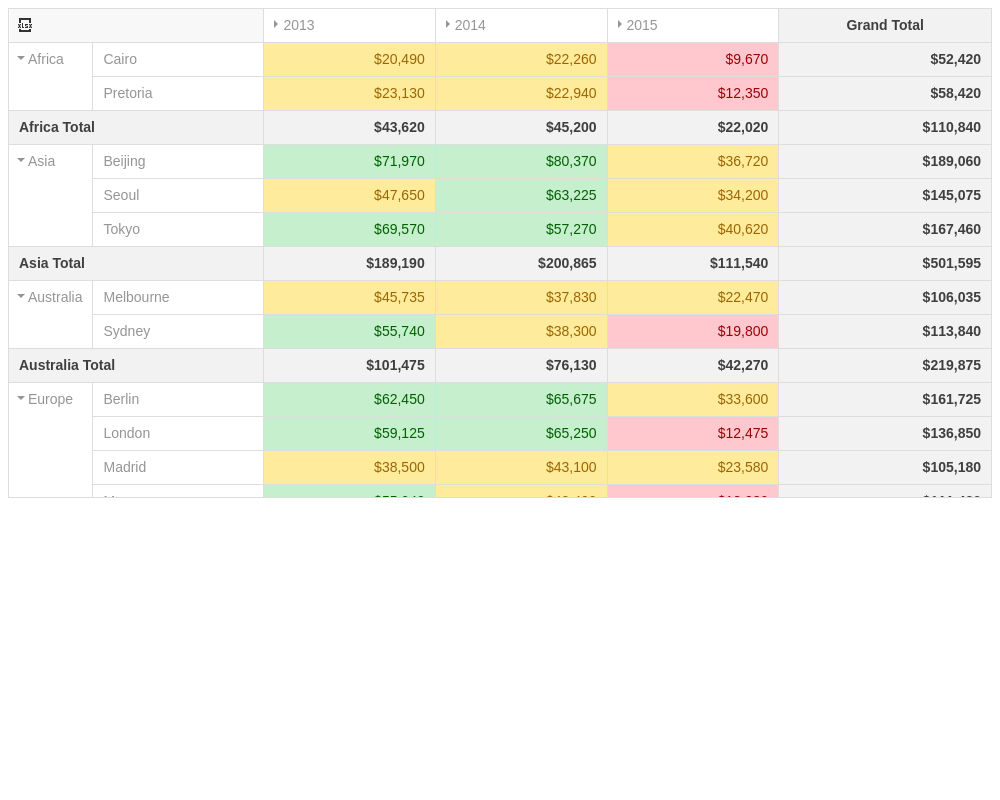
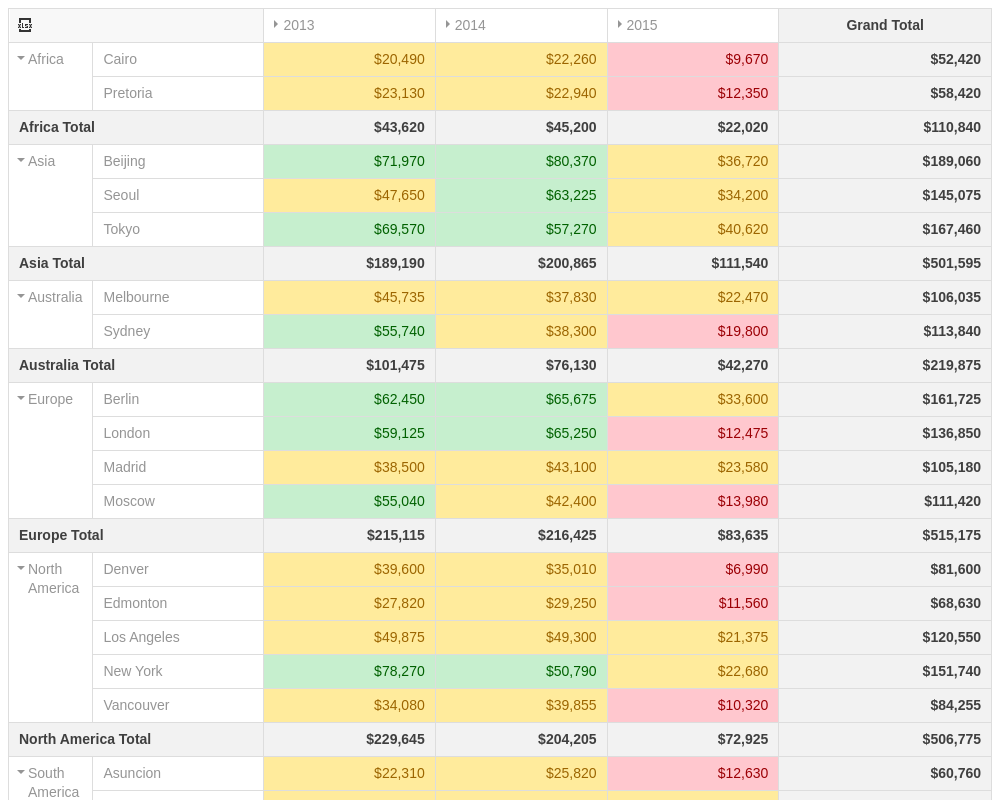
PivotGrid-ExcelJSCellCustomization fix

diff --git a/JSDemos/Demos/PivotGrid/ExcelJSCellCustomization/test-code.js b/JSDemos/Demos/PivotGrid/ExcelJSCellCustomization/test-code.js
@@ -1,0 +1,7 @@
+testUtils
+    .postponeUntilFound('.dx-pivotgrid')
+    .then(() => testUtils.importAnd(() => 'devextreme/ui/pivot_grid', () => DevExpress.ui.dxPivotGrid, function (dxPivotGrid) {
+        testUtils.findElements('.dx-pivotgrid:first-of-type').forEach((x) => {
+            dxPivotGrid.getInstance(x).resetOption('height');
+        })
+    }));

diff --git a/JSDemos/Demos/PivotGrid/ExcelJSCellCustomization/test-styles.css b/JSDemos/Demos/PivotGrid/ExcelJSCellCustomization/test-styles.css
@@ -1,0 +1,3 @@
+.dx-pivotgrid:first-of-type {
+    height: 100vh !important;
+}
